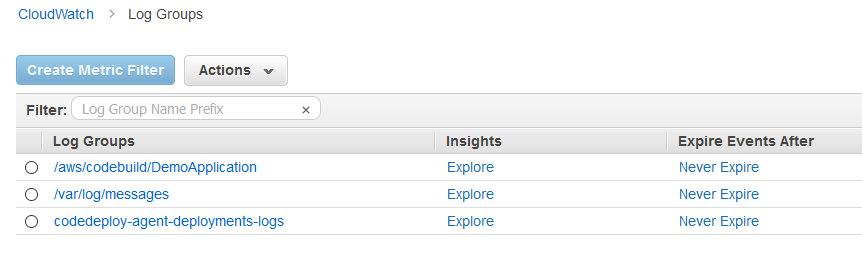
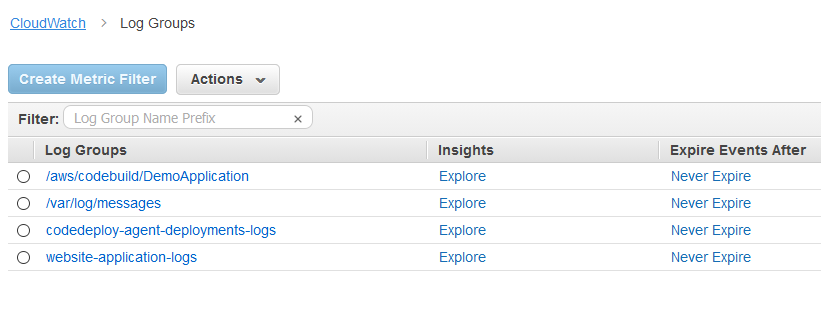
Add config : website-application-logs for cloudwatch logs agent

Changed region(s): [[0.0, 0.1798, 1.0, 0.6592], [0.0, 0.6891, 1.0, 0.8989], [0.0, 0.03, 0.2436, 0.1199]]

diff --git a/README.md b/README.md
@@ -198,6 +198,11 @@ But failures start to happen when there are more than one EC2 instance served be
 Any GET request to fetch the form and the POST request to submit the form can be served by different EC2 web servers, thus failing the validation of token.
 
 ![alt capture](https://github.com/danmgs/AWS.Pipeline.CloudFormation/blob/master/img/antiforgerytoken.PNG)
+<br/>
+
+On the end-user side, token is generated and stored in the browser's cookies:
+
+![alt capture](https://github.com/danmgs/AWS.Pipeline.CloudFormation/blob/master/img/antiforgerytoken2.PNG)
 
 <details>
   <summary>Click to expand details</summary>
@@ -217,7 +222,8 @@ Microsoft.AspNetCore.Antiforgery.AntiforgeryValidationException: The antiforgery
 
 <br/>
 
-As a solution, EC2s need to **share** anti-forgery tokens. There are different [ways](https://docs.microsoft.com/en-us/aspnet/core/security/data-protection/implementation/key-storage-providers?view=aspnetcore-2.1&tabs=visual-studio#azure-and-redis) to store tokens.
+As a solution, anti-forgery tokens must be shared by the EC2 servers side.<br/>
+There are different [ways](https://docs.microsoft.com/en-us/aspnet/core/security/data-protection/implementation/key-storage-providers?view=aspnetcore-2.1&tabs=visual-studio#azure-and-redis) to store tokens.
 
 We use Redis (AWS Elastic Cache Service) for this shared storage.
 
@@ -311,7 +317,7 @@ In Cloud Formation init section, see config step **04_setup_amazon-codedeploy-ag
 Refer template **autoscalinggroup.alb.cfn.yml**.<br/>
 In Cloud Formation init section, see **05_setup-amazon-cloudwatch-agent**.
 
-To enable CloudWatch watching CodeDeploy deployment logfiles, make sure to Configure file **/etc/awslogs/awscli.conf** :
+To enable CloudWatch watching CodeDeploy deployment and website logfiles, make sure to Configure file **/etc/awslogs/awscli.conf** :
 
 ```yml
 [/var/log/messages]
@@ -329,19 +335,36 @@ buffer_duration = 5000
 log_stream_name = {instance_id}
 initial_position = start_of_file
 log_group_name = codedeploy-agent-deployments-logs
+
+[website-application-logs]
+datetime_format = %b %d %H:%M:%S
+file = /usr/app/logs/*.log
+buffer_duration = 5000
+log_stream_name = {instance_id}
+initial_position = start_of_file
+log_group_name = website-application-logs
 ```
 
 LogGroup name chosen for CodeDeploy is: **codedeploy-agent-deployments-logs**.
+LogGroup name chosen for the website is: **website-application-logs**.
 
 :information_source: Logs in AWS Cloudwatch Console
 <details>
   <summary>Click to expand details</summary>
 
+  Logs groups and Log streams
+
   ![alt capture](https://github.com/danmgs/AWS.Pipeline.CloudFormation/blob/master/img/CloudwatchLogs1.PNG)
 
   ![alt capture](https://github.com/danmgs/AWS.Pipeline.CloudFormation/blob/master/img/CloudwatchLogs2.PNG)
 
+  CodeDeploy deployment logs
+
   ![alt capture](https://github.com/danmgs/AWS.Pipeline.CloudFormation/blob/master/img/CloudwatchLogs3.PNG)
+
+  Website logs
+
+  ![alt capture](https://github.com/danmgs/AWS.Pipeline.CloudFormation/blob/master/img/CloudwatchLogs4.PNG)
 </details>
 
 ## 7. Walkthrough - The Website
@@ -379,7 +402,7 @@ Output logs are on EC2 instances in this location:
 /usr/app/logs
 ```
 
-A possible enhancement is to configure these logs to be poured into CloudWatch under a new log group (refer section **6.2.**).
+For convenience, these logs are synchronized into CloudWatch (refer section **6.2.**).
 
 ## 8. Annex
 
